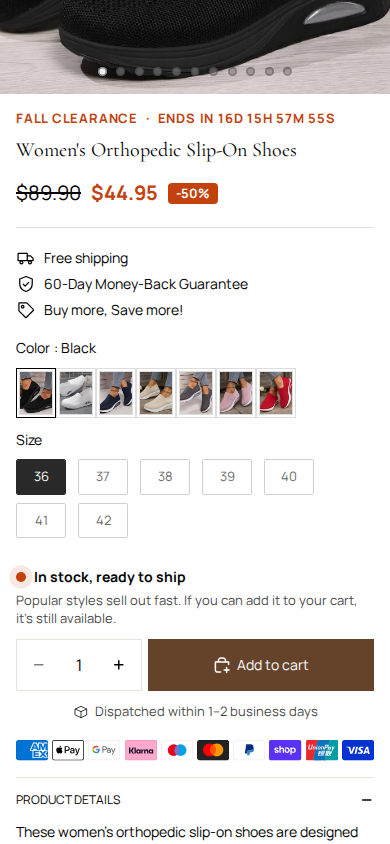
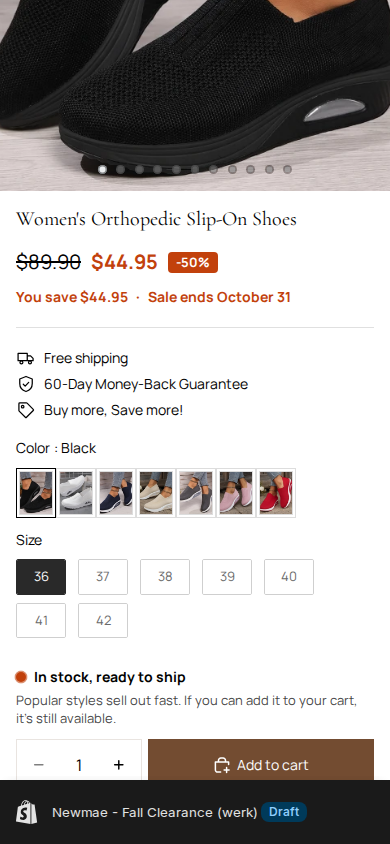
NewMae Fall Clearance: You save line under the price, cleaner top bar
Claude-Session: https://claude.ai/code/session_018o1F5pquvMjEbPFw2Wz8La

diff --git a/newmae/README.md b/newmae/README.md
@@ -59,3 +59,6 @@
   the index and collection templates; the two sale messages left the announcement bar (shipping + returns stay).
   Product: sale badge is now a full-width orange bar. templates/product.json synced with the user's editor version
   (customer photo blocks added by the user).
+- Round 4: product page sale bar replaced by "You save $X · Sale ends October 31" under the price (block pp-sale-badge,
+  amount per selected variant = compare-at minus price). Top bar cleaner: more padding (11px), thin divider between
+  headline and details on desktop, two lines on mobile; one section in the header group, so it changes on every page.
